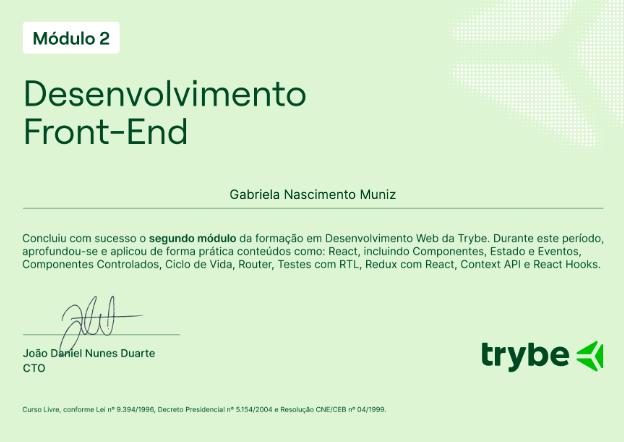
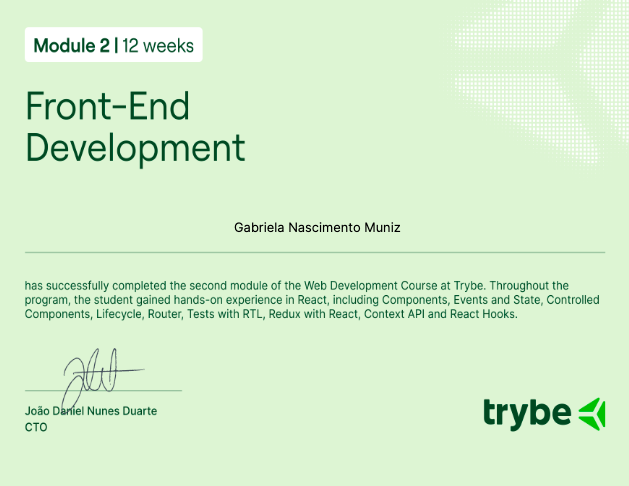
change certificats and about text

diff --git a/src/components/about/About.jsx b/src/components/about/About.jsx
@@ -7,12 +7,14 @@ const About = () => {
       {/* <div className='about-hr'/> */}
       <div className='about-content'>
       <h3 className='about-title'>About Me</h3>
-      <p>Sempre quis trabalhar com tecnologia, mas não sabia como. 
-      Depois de entrar na universidade na área de design, me interessei por design 3D e a partir daí aprendi e me apaixonei por programação, 
-      portanto resolvi mudar de área. Atualmente estudo desenvolvimento web na Trybe, 
-      uma escola de programação que ensina soft e hard skill. 
-     Hoje posso dizer que me encontrei em uma área pela qual sou muito apaixonada e acredito que estarei no caminho certo para 
-     fazer com que a tecnologia melhore ainda mais a vida das pessoas.</p>
+      <p>I always wanted to work with technology, but I didn't know how. 
+        After entering the university in the field of design, I became interested 
+        in 3D design and from there I learned and fell in love with programming, 
+        so I decided to change areas. I'm currently studying web development at Trybe, 
+        a programming school that teaches soft and hard skills.
+        Today I can say that I found myself in an area that I am very passionate about and 
+        I believe that I will be on the right track to make technology improve people's lives even more.
+      </p>
   </div>
   {/* <div className='about-hr'/> */}
     </div>

diff --git a/src/components/certificates/Certificates.jsx b/src/components/certificates/Certificates.jsx
@@ -8,11 +8,11 @@ const Certificates = () => {
     <div className='certificate-conteiner' id='certificates'>
         <h3 className='certificate-title'>Certificates</h3>
         <div className='certificate-content'>
-        <a href="https://www.credential.net/80affd06-fefa-40d1-a154-ee8f7f792753#gs.uxcwju"
+        <a href="https://www.credential.net/8de99712-40ba-4500-b66e-3037d2ac350c#gs.uk9au3"
         target="_blank" rel="noopener noreferrer">
         <img src={fundamentos} alt="certificado de fundamentos" className='certificate'/>
         </a>
-        <a href="https://www.credential.net/ba6fc10f-ebb5-4413-8c0e-c6fee4e630bf"
+        <a href="https://www.credential.net/b6e3f0a8-78e6-4987-a4dd-654865bd793b#gs.uk9egj"
         target="_blank" rel="noopener noreferrer">
         <img src={front} alt="certificado de front-end" className='certificate' />
         </a>

diff --git a/src/components/about/about.css b/src/components/about/about.css
@@ -16,7 +16,7 @@
 .about-content {
     width: 60%;
     background-color: #2c2c6c;
-    text-align: center;
+    text-align: justify;
     color: white;
     margin: 1rem 0;
     border-radius: 1rem;
@@ -34,6 +34,7 @@
 
 .about-title {
     font-size: 1.5rem;
+    text-align: center;
     color: Pink;
 }
 
